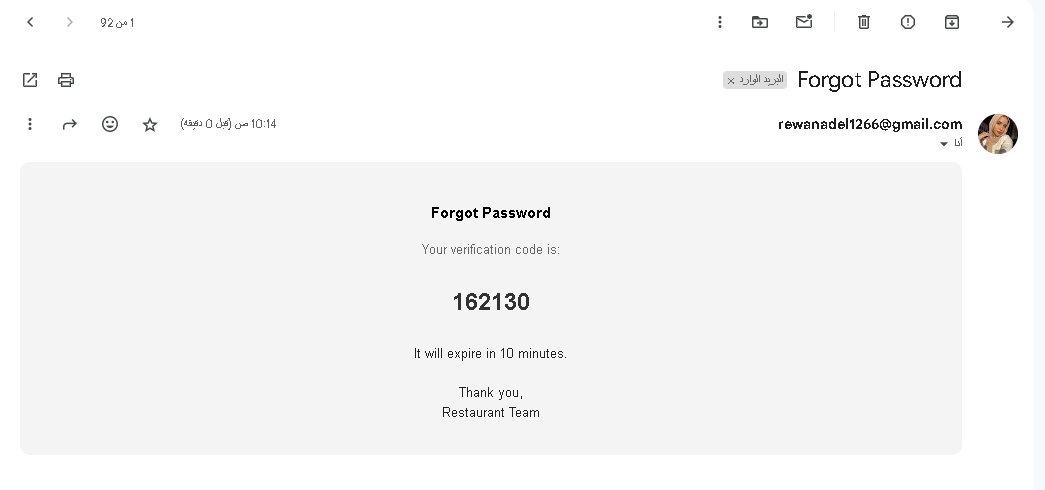
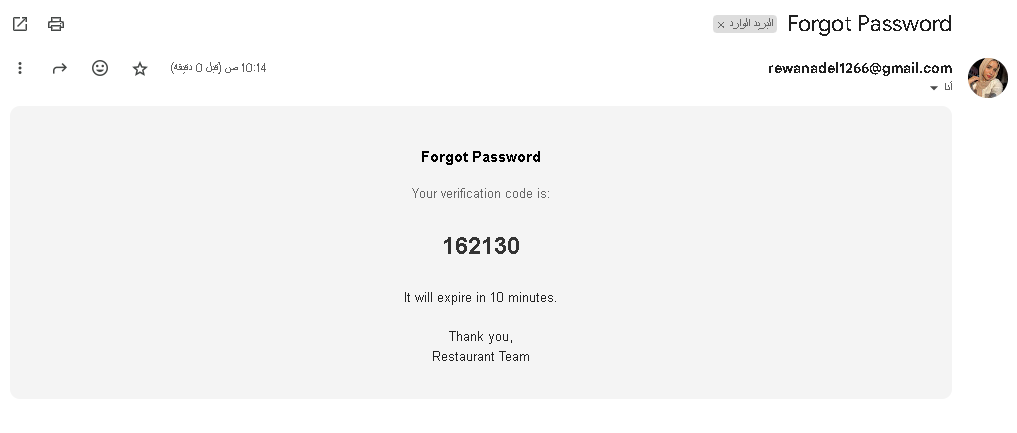
updates

diff --git a/src/app.js b/src/app.js
@@ -13,7 +13,7 @@ const authRoute = require('./routes/auth.route');
 const orderRoute = require('./routes/order.route');
 const staffRoute = require('./routes/staff.route');
 
-const whitelist = [`http://localhost:${process.env.PORT}`, 'https://restaurant-app-backend.herokuapp.com'];
+const whitelist = [];
 const corsOptions = {
     origin: function (origin, callback) {
         if (!whitelist.includes(origin) !== -1 || !origin) {
@@ -45,19 +45,20 @@ app.use((err, req, res, next) => {
 });
 
 app.get('/', (req, res) => {
-    return successResponse(res, 'Welcome to Restaurant API', null, 200);
+    return successResponse(res, 'Welcome to Restaurant Management System API');
 });
 
 app.use('/api/v1/menu',  menuRoute);
 app.use('/api/v1/auth',  authRoute);
-app.use('/api/v1/order',  orderRoute);
-app.use('/api/v1/staff',  staffRoute);
+app.use('/api/v1/order', orderRoute);
+app.use('/api/v1/staff', staffRoute);
 
 app.all('*', (req, res) => {
     return failedResponse(res, `Can't find ${req.originalUrl} on this server!`, null, 404);
 });
 
 expireOrders();
+
 const port = process.env.PORT || 3000;
 app.listen(port, ()=>{
     console.log(`Server listening on port ${port}`);

diff --git a/README.md b/README.md
@@ -97,10 +97,11 @@ This is a **Simplified Restaurant Management System API** that supports **menu m
      DB_USER        = your_db_user
      DB_PASS        = your_db_password
      DB_NAME        = restaurant_db
-     EMAIL_SENDER   = your_gmail_acc 
-     EMAIL_PASSWORD = gmail_app_password
+
      TOKEN_SECRET   = your_secret_key
      JWT_EXPIRATION = 7d
+     EMAIL_SENDER   = rewanadel1266@gmail.com  
+     EMAIL_PASSWORD = qccn pnhg skyj esdm
      ```
 
 4. Start the Server:
